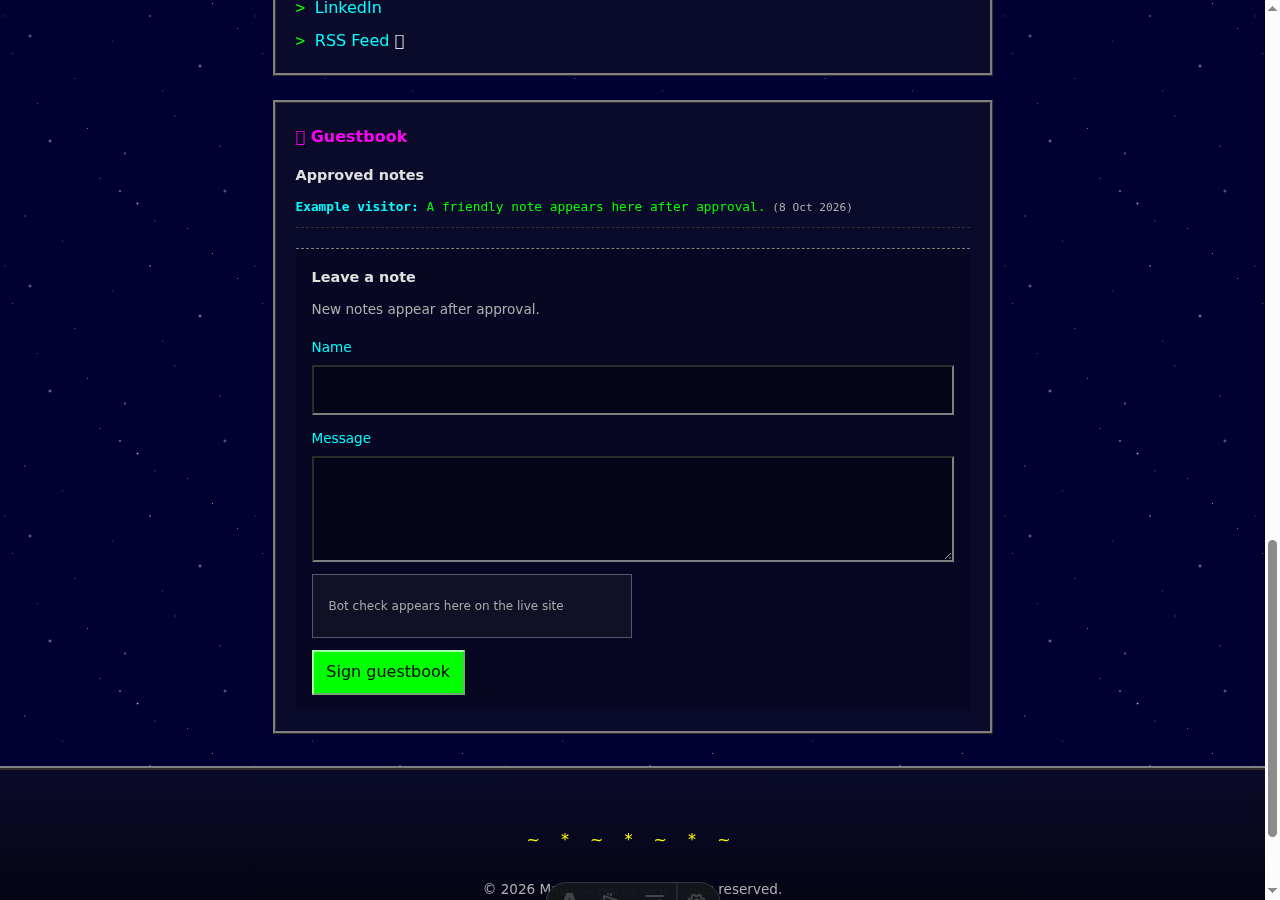
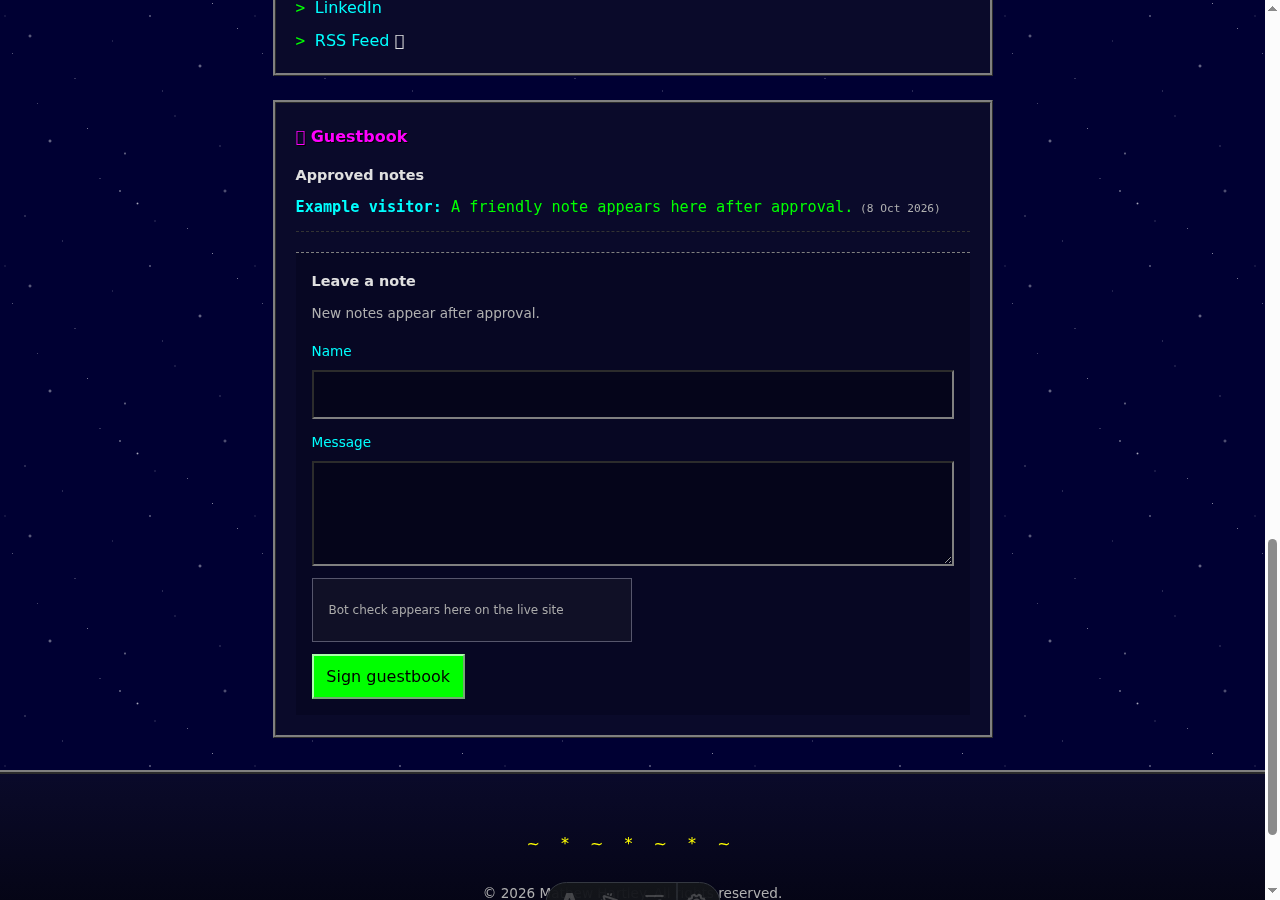
ui: emphasize approved guestbook notes

diff --git a/src/styles/global.css b/src/styles/global.css
@@ -769,13 +769,14 @@ hr.star-divider::after {
 
 .guestbook-entries {
   font-family: var(--font-mono);
-  font-size: 0.8rem;
+  font-size: 0.95rem;
+  line-height: 1.5;
   color: var(--color-accent);
 }
 
 .guestbook-entries p {
-  margin-bottom: 0.5rem;
-  padding-bottom: 0.5rem;
+  margin-bottom: 0.75rem;
+  padding-bottom: 0.75rem;
   border-bottom: 1px dashed #333;
 }
 
